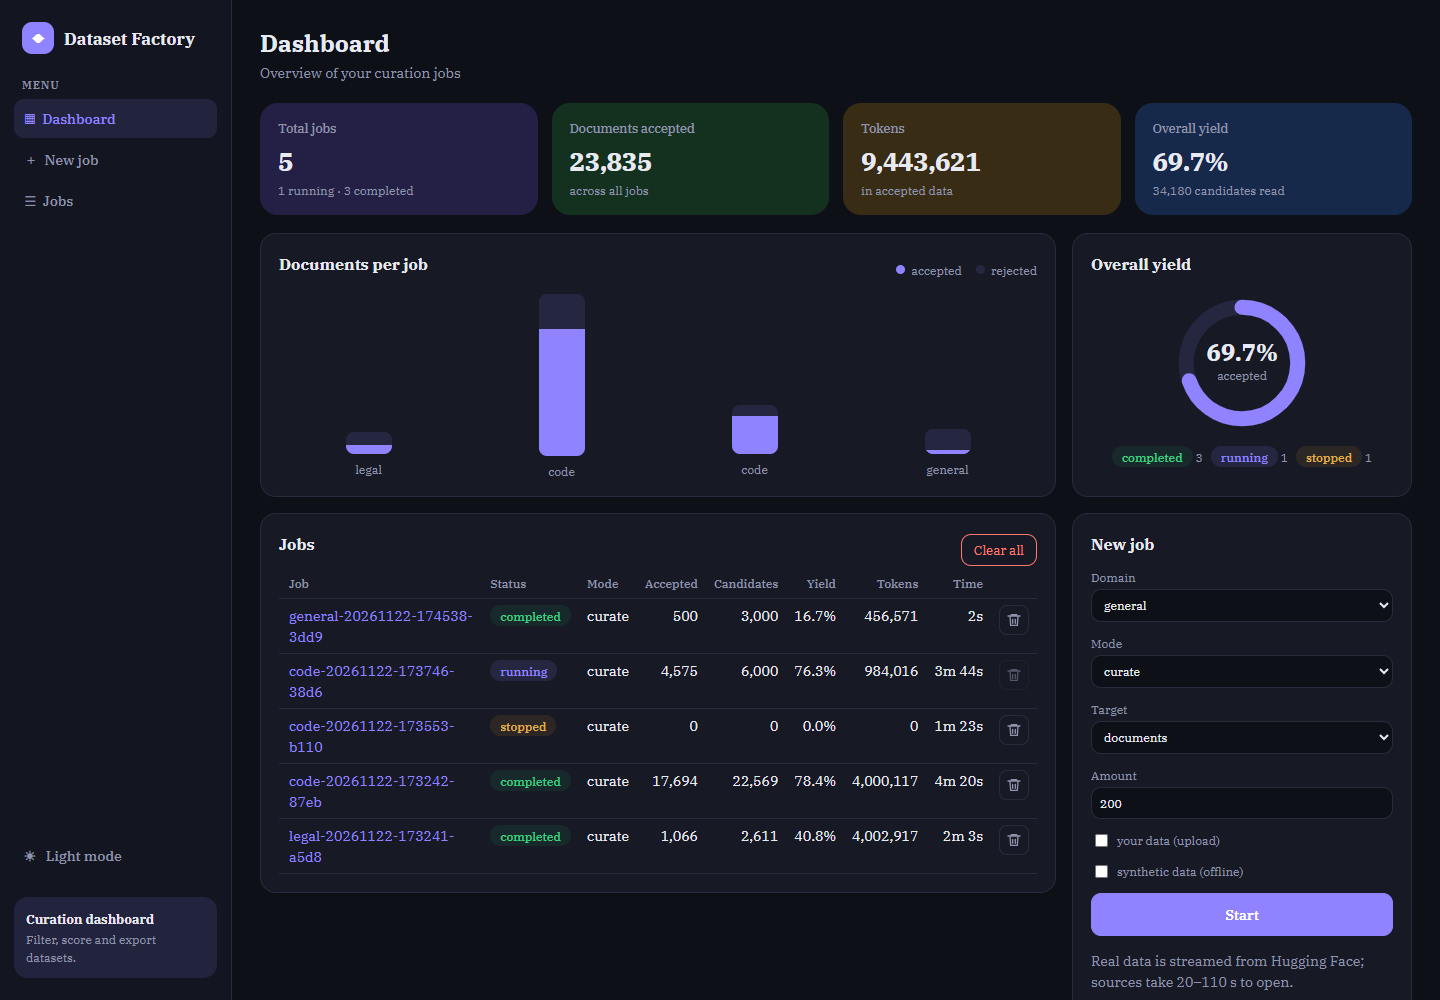
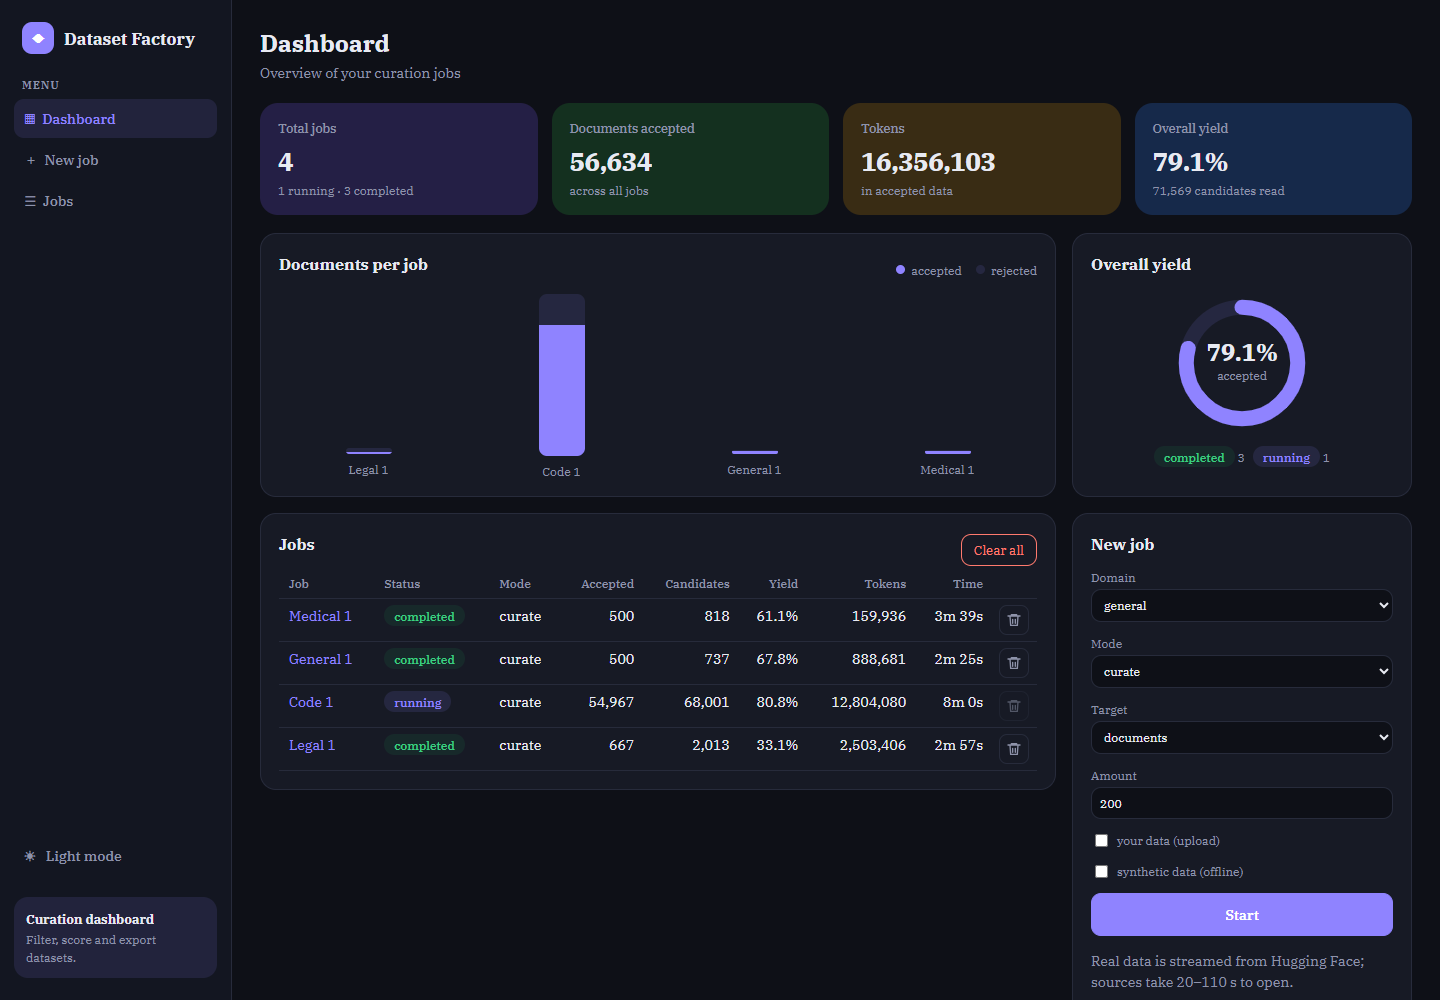
Friendly job names: "Legal 1", "Code random 2"
- Each job gets a permanent name when it is created, stored in
  <runs>/job-names.json (job folders are not touched). Numbers count per
  domain and mode and are never reused after a delete; older jobs are numbered
  oldest first the first time the API lists them. Saving retries on the brief
  Windows file lock.
- The dashboard list, chart and job page show the name; the id is a tooltip on
  the dashboard and small text on the job page. Jobs without a name fall back to
  the id.
- Tests: backend 233, frontend 50 (new tests for numbering, never-reuse,
  oldest-first, unreadable file, API names, and the UI labels).
- README/docs counts updated; screenshots retaken with fresh jobs numbered 1.

diff --git a/frontend/app/page.tsx b/frontend/app/page.tsx
@@ -1,6 +1,6 @@
 "use client";
 import { useEffect, useState } from "react";
-import { api, ACTIVE, dur, n, pct, type JobState, type Meta } from "./lib";
+import { api, ACTIVE, dur, label, n, pct, type JobState, type Meta } from "./lib";
 import { Badge, JobsChart, YieldDonut } from "./components";
 
 type Target = "max_documents" | "max_tokens" | "max_candidates";
@@ -49,7 +49,7 @@ export default function Home() {
   }
 
   async function removeJob(j: JobState) {
-    if (!window.confirm(`Delete ${j.job_id} and all its data? This cannot be undone.`)) return;
+    if (!window.confirm(`Delete ${label(j)} and all its data? This cannot be undone.`)) return;
     try {
       await api<void>(`/api/jobs/${encodeURIComponent(j.job_id)}`, { method: "DELETE" });
       setJobs((old) => old.filter((x) => x.job_id !== j.job_id)); setError("");
@@ -100,14 +100,14 @@ export default function Home() {
               <th className="num">Yield</th><th className="num">Tokens</th><th className="num">Time</th><th /></tr></thead>
             <tbody>{jobs.map((j) => (
               <tr key={j.job_id}>
-                <td className="c-job"><a href={`/jobs/view?id=${encodeURIComponent(j.job_id)}`}>{j.job_id}</a></td>
+                <td className="c-job"><a href={`/jobs/view?id=${encodeURIComponent(j.job_id)}`} title={j.job_id}>{label(j)}</a></td>
                 <td className="c-status"><Badge status={j.status} /></td><td className="c-mode">{j.mode}</td>
                 <td className="num c-acc" data-label="accepted">{n(j.accepted)}</td><td className="num c-cand">{n(j.candidates)}</td>
                 <td className="num c-yield" data-label="yield">{ACTIVE.includes(j.status) && !j.candidates ? "–" : pct(j.yield_rate)}</td>
                 <td className="num c-tok">{n(j.tokens)}</td><td className="num c-time" data-label="time">{dur(j.elapsed_seconds)}</td>
                 <td className="c-del">
                   <button className="icon" onClick={() => removeJob(j)} disabled={ACTIVE.includes(j.status)}
-                    aria-label={`Delete ${j.job_id}`} title={ACTIVE.includes(j.status) ? "Stop the job before deleting it" : "Delete this job"}>
+                    aria-label={`Delete ${label(j)}`} title={ACTIVE.includes(j.status) ? "Stop the job before deleting it" : "Delete this job"}>
                     <svg viewBox="0 0 24 24" width="16" height="16" fill="none" stroke="currentColor" strokeWidth="2" strokeLinecap="round" strokeLinejoin="round" aria-hidden>
                       <path d="M3 6h18M8 6V4h8v2M6 6l1 14h10l1-14M10 11v6M14 11v6" />
                     </svg>

diff --git a/frontend/tests/home.test.tsx b/frontend/tests/home.test.tsx
@@ -1,4 +1,4 @@
-import { fireEvent, render, screen, waitFor } from "@testing-library/react";
+import { fireEvent, render, screen, waitFor, within } from "@testing-library/react";
 import userEvent from "@testing-library/user-event";
 import { describe, expect, it, vi } from "vitest";
 import Home from "../app/page";
@@ -65,6 +65,19 @@ describe("Home page", () => {
     expect(screen.getByRole("link", { name: "run-1" })).toBeInTheDocument();
     expect(calls.find((c) => c.method === "DELETE")!.path).toBe("/api/jobs");
     expect(confirm.mock.calls[1][0]).toMatch(/all 2 finished jobs/);
+  });
+
+  it("shows the friendly name and keeps the id only as a tooltip and link target", async () => {
+    mockApi({ ...base, "GET /api/jobs": [job({ name: "Legal 2" }), job({ job_id: "old-job" })] });
+    render(<Home />);
+    await screen.findAllByRole("link", { name: "Legal 2" });
+    const table = within(screen.getByRole("table"));
+    const link = table.getByRole("link", { name: "Legal 2" });
+    expect(link).toHaveAttribute("href", "/jobs/view?id=legal-1");
+    expect(link).toHaveAttribute("title", "legal-1");
+    expect(screen.queryByText("legal-1")).not.toBeInTheDocument();                 // the id is not shown as text
+    expect(table.getByRole("link", { name: "old-job" })).toBeInTheDocument();      // no name yet: falls back to the id
+    expect(screen.getByRole("button", { name: "Delete Legal 2" })).toBeInTheDocument();
   });
 
   it("says so when there are no jobs", async () => {

diff --git a/frontend/app/jobs/view/page.tsx b/frontend/app/jobs/view/page.tsx
@@ -1,7 +1,7 @@
 "use client";
 import { Suspense, useCallback, useEffect, useRef, useState } from "react";
 import { useSearchParams } from "next/navigation";
-import { API, api, ACTIVE, dur, n, pct, type JobState } from "../../lib";
+import { API, api, ACTIVE, dur, label, n, pct, type JobState } from "../../lib";
 import { Badge, Browser, CountTable, Histogram, NestedTable, Stat } from "../../components";
 
 function Detail() {
@@ -85,8 +85,9 @@ function Detail() {
       <div className="pagehead">
         <div>
           <a className="crumb" href="/">← Jobs</a>
-          <div className="row"><h1>{state.job_id}</h1><Badge status={state.status} /></div>
-          <p>{state.domain} · {state.mode}{state.started_at ? ` · started ${new Date(state.started_at).toLocaleString()}` : ""}</p>
+          <div className="row"><h1 title={state.job_id}>{label(state)}</h1><Badge status={state.status} /></div>
+          <p>{state.domain} · {state.mode}{state.started_at ? ` · started ${new Date(state.started_at).toLocaleString()}` : ""}
+            {state.name && <span className="jid"> · id {state.job_id}</span>}</p>
         </div>
         <div className="row">
           {active && <button onClick={() => act("stop")} disabled={stopping}>{stopping ? "Stopping…" : "Stop"}</button>}

diff --git a/frontend/app/components.tsx b/frontend/app/components.tsx
@@ -1,6 +1,6 @@
 "use client";
 import { useCallback, useEffect, useState } from "react";
-import { api, n, pct, type Counts, type JobState } from "./lib";
+import { api, label, n, pct, type Counts, type JobState } from "./lib";
 
 export function Badge({ status }: { status: string }) {
   return <span className={`badge ${status}`}>{status}</span>;
@@ -136,12 +136,12 @@ export function JobsChart({ jobs }: { jobs: JobState[] }) {
         <div className="bars">
           {rows.map((j) => (
             <a key={j.job_id} className="barcol" href={`/jobs/view?id=${encodeURIComponent(j.job_id)}`}
-               title={`${j.job_id}: ${j.accepted} accepted of ${j.candidates} read`}>
+               title={`${label(j)} (${j.job_id}): ${j.accepted} accepted of ${j.candidates} read`}>
               <div className="stack" style={{ height: `${(j.candidates / max) * 100}%` }}>
                 <div className="r" style={{ flex: j.candidates - j.accepted }} />
                 <div className="a" style={{ flex: j.accepted }} />
               </div>
-              <span>{j.domain}</span>
+              <span>{j.name || j.domain}</span>
             </a>
           ))}
         </div>

diff --git a/frontend/app/lib.ts b/frontend/app/lib.ts
@@ -2,7 +2,7 @@ export const API = process.env.NEXT_PUBLIC_API_URL || "http://localhost:8000";
 
 export type Counts = Record<string, number>;
 export interface JobState {
-  job_id: string; domain: string; mode: string; status: string; message: string;
+  job_id: string; name?: string; domain: string; mode: string; status: string; message: string;
   started_at: string; finished_at: string; elapsed_seconds: number;
   candidates: number; evaluated: number; accepted: number; tokens: number; words: number;
   rejected: Counts; by_source: Record<string, Counts>; by_agent: Record<string, Counts>;
@@ -32,4 +32,6 @@ export const dur = (s: number) => {
   const h = Math.floor(t / 3600), m = Math.floor((t % 3600) / 60), sec = t % 60;
   return h ? `${h}h ${m}m ${sec}s` : m ? `${m}m ${sec}s` : `${sec}s`;
 };
+/** What people see: the friendly name ("Legal 2"), or the id for a job without one. */
+export const label = (j: { job_id: string; name?: string }) => j.name || j.job_id;
 export const ACTIVE = ["pending", "running", "stopping"];

diff --git a/frontend/tests/jobview.test.tsx b/frontend/tests/jobview.test.tsx
@@ -118,6 +118,13 @@ describe("job detail page", () => {
     expect(within(statTile("elapsed")).getByText(/^1[12]s$/)).toBeInTheDocument();
   });
 
+  it("titles the page with the friendly name and shows the id in small print", async () => {
+    mockApi({ "GET /api/jobs/legal-1": detail(job({ name: "Legal 4" })), ...lists });
+    render(<JobPage />);
+    expect(await screen.findByRole("heading", { level: 1, name: "Legal 4" })).toBeInTheDocument();
+    expect(screen.getByText(/id legal-1/)).toBeInTheDocument();
+  });
+
   it("offers Resume for a stopped job and posts it", async () => {
     const { calls } = mockApi({
       "GET /api/jobs/legal-1": detail(job({ status: "stopped" })),

diff --git a/frontend/app/globals.css b/frontend/app/globals.css
@@ -138,3 +138,4 @@ button.icon { padding:6px; border-radius:8px; color:var(--mute); line-height:0; 
 button.danger { color:var(--bad); border-color:var(--bad); background:transparent; padding:5px 12px; font-size:13px; } button.danger:hover:not(:disabled) { background:var(--bad); color:#fff; }
 table.jobs td.num { white-space:nowrap; } table.jobs td.c-del { text-align:right; width:1%; }
 @media (max-width:640px) { table.jobs td.c-del { grid-column:4; grid-row:2; align-self:end; } }
+.jid { color:var(--mute); font-size:12px; font-family:ui-monospace,Consolas,monospace; word-break:break-all; }

diff --git a/backend/dataset_factory/api/names.py b/backend/dataset_factory/api/names.py
@@ -1,0 +1,88 @@
+"""Friendly, permanent job names ("Legal 1", "Code random 3") kept in ``<runs>/job-names.json``.
+
+The job id (``legal-20261123-224402-38f6``) stays the real identifier; the name is only for people.
+Numbers count up per domain and mode and are never reused, so deleting "Legal 2" does not turn "Legal 3" into
+"Legal 2". Jobs that existed before this file did get numbers in the order they were started. Job folders are not
+touched, only this one small file.
+"""
+
+from __future__ import annotations
+
+import json
+import os
+import threading
+import time
+from pathlib import Path
+from typing import Any
+
+
+def name_prefix(domain: str, mode: str) -> str:
+    base = (domain or "job").capitalize()
+    return f"{base} random" if mode == "random" else base
+
+
+class JobNames:
+    def __init__(self, output_dir: Path) -> None:
+        self.path = Path(output_dir) / "job-names.json"
+        self._lock = threading.Lock()
+        self._names: dict[str, str] = {}
+        self._counters: dict[str, int] = {}
+        self._load()
+
+    # -- storage ------------------------------------------------------------
+
+    def _load(self) -> None:
+        try:
+            data = json.loads(self.path.read_text(encoding="utf-8"))
+            self._names = {str(k): str(v) for k, v in dict(data.get("names", {})).items()}
+            self._counters = {str(k): int(v) for k, v in dict(data.get("counters", {})).items()}
+        except (OSError, ValueError, TypeError, AttributeError):
+            self._names, self._counters = {}, {}          # missing or unreadable: start empty
+
+    def _save(self) -> None:
+        try:
+            self.path.parent.mkdir(parents=True, exist_ok=True)
+            tmp = self.path.with_suffix(".json.tmp")
+            tmp.write_text(json.dumps({"counters": self._counters, "names": self._names}, indent=1), encoding="utf-8")
+            for attempt in range(8):                      # Windows: the target can be briefly locked by another program
+                try:
+                    os.replace(tmp, self.path)
+                    return
+                except PermissionError:
+                    time.sleep(0.05 * (attempt + 1))
+            os.replace(tmp, self.path)
+        except OSError:
+            pass                                          # names are a convenience; never break a job over them
+
+    # -- use ----------------------------------------------------------------
+
+    def get(self, job_id: str) -> str:
+        return self._names.get(job_id, "")
+
+    def assign(self, job_id: str, domain: str, mode: str) -> str:
+        with self._lock:
+            return self._assign(job_id, domain, mode)
+
+    def _assign(self, job_id: str, domain: str, mode: str) -> str:
+        if job_id in self._names:
+            return self._names[job_id]
+        prefix = name_prefix(domain, mode)
+        number = self._counters.get(prefix, 0) + 1
+        self._counters[prefix] = number
+        self._names[job_id] = f"{prefix} {number}"
+        self._save()
+        return self._names[job_id]
+
+    def forget(self, job_id: str) -> None:
+        with self._lock:
+            if self._names.pop(job_id, None) is not None:
+                self._save()
+
+    def sync(self, rows: list[dict[str, Any]]) -> None:
+        """Give every row a name (oldest unnamed job first) and put it in ``row["name"]``."""
+        with self._lock:
+            for row in sorted((r for r in rows if r["job_id"] not in self._names),
+                              key=lambda r: r.get("started_at") or ""):
+                self._assign(row["job_id"], row.get("domain", ""), row.get("mode", "curate"))
+            for row in rows:
+                row["name"] = self._names.get(row["job_id"], "")

diff --git a/backend/tests/test_job_feedback.py b/backend/tests/test_job_feedback.py
@@ -10,6 +10,7 @@ from fastapi.testclient import TestClient
 
 from dataset_factory.api import create_app
 from dataset_factory.api.manager import JobManager
+from dataset_factory.api.names import JobNames
 from dataset_factory.tokens import TokenizerUnavailable, load_token_counter
 from dataset_factory.config import load_config
 from dataset_factory.orchestrator import Job, JobSpec
@@ -118,3 +119,45 @@ def test_running_job_cannot_be_deleted_and_survives_clear_all(client):
     while time.time() < end and client.get(f"/api/jobs/{job_id}").json()["state"]["status"] != "stopped":
         time.sleep(0.2)
     assert client.delete(f"/api/jobs/{job_id}").status_code == 204
+
+
+# -- friendly names -----------------------------------------------------------
+
+
+def test_names_count_per_domain_and_mode_and_are_never_reused(tmp_path):
+    names = JobNames(tmp_path)
+    assert names.assign("a", "legal", "curate") == "Legal 1"
+    assert names.assign("b", "legal", "curate") == "Legal 2"
+    assert names.assign("c", "legal", "random") == "Legal random 1"
+    assert names.assign("d", "code", "curate") == "Code 1"
+    assert names.assign("a", "legal", "curate") == "Legal 1"          # asking again keeps the name
+    names.forget("b")
+    assert names.assign("e", "legal", "curate") == "Legal 3"          # "Legal 2" is not handed out again
+    assert JobNames(tmp_path).get("e") == "Legal 3"                    # survives a restart
+
+
+def test_older_jobs_are_named_oldest_first_and_new_ones_continue(tmp_path):
+    names = JobNames(tmp_path)
+    rows = [{"job_id": "new", "domain": "legal", "mode": "curate", "started_at": "2026-03-01"},
+            {"job_id": "old", "domain": "legal", "mode": "curate", "started_at": "2026-01-01"},
+            {"job_id": "mid", "domain": "legal", "mode": "curate", "started_at": "2026-02-01"}]
+    names.sync(rows)
+    assert {r["job_id"]: r["name"] for r in rows} == {"old": "Legal 1", "mid": "Legal 2", "new": "Legal 3"}
+    assert names.assign("fresh", "legal", "curate") == "Legal 4"
+
+
+def test_unreadable_names_file_does_not_break_anything(tmp_path):
+    (tmp_path / "job-names.json").write_text("{not json")
+    assert JobNames(tmp_path).assign("x", "news", "curate") == "News 1"
+
+
+@pytest.mark.skipif(not _HAVE_TOKENIZER, reason="Pythia tokenizer not cached")
+def test_api_returns_names_and_delete_forgets_them(client, tmp_path):
+    first, second = _run_job(client), _run_job(client)
+    names = {j["job_id"]: j["name"] for j in client.get("/api/jobs").json()}
+    assert sorted(names.values()) == ["General 1", "General 2"]
+    assert client.get(f"/api/jobs/{first}").json()["state"]["name"] == names[first]
+    client.delete(f"/api/jobs/{first}")
+    third = _run_job(client)
+    assert client.get(f"/api/jobs/{third}").json()["state"]["name"] == "General 3"
+    assert client.get(f"/api/jobs/{second}").json()["state"]["name"] == names[second]    # unchanged

diff --git a/backend/dataset_factory/api/manager.py b/backend/dataset_factory/api/manager.py
@@ -10,6 +10,7 @@ from pathlib import Path
 from typing import Any
 
 from ..config import Config, ConfigError, load_config
+from .names import JobNames
 from .uploads import UPLOAD_ID_RE
 from ..orchestrator import Job, JobSpec, default_output_dir, load_resumable
 
@@ -41,6 +42,7 @@ class JobManager:
         self.max_running = max_running
         self._entries: dict[str, _Entry] = {}
         self._lock = threading.Lock()
+        self._names = JobNames(self.output_dir)
 
     # -- helpers ------------------------------------------------------------
 
@@ -80,6 +82,7 @@ class JobManager:
             job = Job(spec, self.config, output_dir=self.output_dir, progress_every=0.5)
             entry = _Entry(job)
             self._entries[job.spec.job_id] = entry
+            self._names.assign(job.spec.job_id, spec.domain, spec.mode)
             self._launch(job, entry)
             return self.get(job.spec.job_id)
 
@@ -106,6 +109,7 @@ class JobManager:
             except OSError as exc:
                 raise JobConflict(f"could not delete the job folder: {exc}") from exc
             self._entries.pop(job_id, None)
+            self._names.forget(job_id)
 
     def delete_all(self) -> dict[str, list[str]]:
         """Delete every job that is not live; returns the deleted ids and the skipped (still live) ids."""
@@ -141,6 +145,13 @@ class JobManager:
     # -- queries ------------------------------------------------------------
 
     def get(self, job_id: str) -> dict[str, Any]:
+        data = self._state(job_id)
+        if not self._names.get(job_id):
+            self.list()                                   # first sight of an older job: name them all, oldest first
+        data["name"] = self._names.get(job_id)
+        return data
+
+    def _state(self, job_id: str) -> dict[str, Any]:
         entry = self._entries.get(job_id)
         if entry is not None:
             data = dict(entry.snapshot)
@@ -174,9 +185,10 @@ class JobManager:
         rows = []
         for job_id in ids:
             try:
-                rows.append(self.get(job_id))
+                rows.append(self._state(job_id))
             except (JobNotFound, OSError, ValueError, KeyError):
                 continue
+        self._names.sync(rows)
         # Newest first; a job that has not reported its start time yet was just created, so it goes on top.
         rows.sort(key=lambda s: s.get("started_at") or "~", reverse=True)
         return rows

diff --git a/README.md b/README.md
@@ -1,6 +1,6 @@
 # Dataset Factory
 
-[![CI](https://github.com/MdMuzammilNihal/DatasetFactory/actions/workflows/ci.yml/badge.svg?branch=main)](https://github.com/MdMuzammilNihal/DatasetFactory/actions/workflows/ci.yml) ![license](https://img.shields.io/badge/license-MIT-blue) ![python](https://img.shields.io/badge/python-3.13-blue) ![tests](https://img.shields.io/badge/tests-307%20passing-brightgreen) ![node](https://img.shields.io/badge/node-22-green)
+[![CI](https://github.com/MdMuzammilNihal/DatasetFactory/actions/workflows/ci.yml/badge.svg?branch=main)](https://github.com/MdMuzammilNihal/DatasetFactory/actions/workflows/ci.yml) ![license](https://img.shields.io/badge/license-MIT-blue) ![python](https://img.shields.io/badge/python-3.13-blue) ![tests](https://img.shields.io/badge/tests-313%20passing-brightgreen) ![node](https://img.shields.io/badge/node-22-green)
 
 A reproducible pipeline for curating domain data for LLM pretraining, plus an evaluation framework that shows **when
 curation helps and when it does not**. It curates real Hugging Face corpora for six domains (general, news, medical,
@@ -15,7 +15,7 @@ legal, scientific, code), with a live dashboard, and measures the effect on Pyth
   and upload of your own data. One-command Docker demo.
 - Evaluation done carefully: same-source unfiltered baselines, per-stage ablations, 13-gram test-set decontamination,
   separate dev and test sets, 3 seeds, paired bootstrap confidence intervals.
-- 307 automated tests (backend, training, frontend) and CI on every push.
+- 313 automated tests (backend, training, frontend) and CI on every push.
 
 Measured on Pythia-160M with 20M-token corpora: curation clearly helps for general web text, helps a little for legal
 (~1.3%) and code (~0.5%) text inside a mixed corpus, and the medical filters add nothing measurable.
@@ -91,6 +91,9 @@ cd ../frontend; npm run dev                                        # dashboard a
 **Your own data:** tick "your data (upload)" on the new-job form (`.jsonl`, `.csv`, `.parquet` or `.txt`, max 200 MB),
 or use `POST /api/uploads` then `POST /api/jobs` with `upload_id`, or `curate DOMAIN --input f.jsonl`. Uploads can be
 listed and deleted through the API, and unused ones older than 14 days are removed at start-up.
+
+**Job names:** each job gets a permanent friendly name ("Legal 1", "Code random 2"; numbers are never reused after a delete) kept in
+`runs/job-names.json`; the real id (the folder name) shows as small text on the job page and as a tooltip.
 
 **Deleting jobs:** the trash icon on a job in the dashboard deletes that finished job and its data; **Clear all** deletes every
 finished job (running jobs are kept; both ask first). API: `DELETE /api/jobs/<id>` and `DELETE /api/jobs?confirm=true`.

diff --git a/docs/RESUME.md b/docs/RESUME.md
@@ -10,7 +10,7 @@ Topics: `llm`, `data-curation`, `pretraining`, `nlp`, `fastapi`, `nextjs`, `pyto
 - Shipped a FastAPI backend and a live Next.js dashboard (SSE progress, rejection reasons, score histograms, record browser, stop/resume), runnable with one command via Docker Compose (images built in CI).
 - Designed the evaluation: same-source unfiltered baselines, per-stage ablations, 13-gram test-set decontamination, separate dev/test sets, 3 seeds, paired bootstrap CIs; ran 57 Pythia-160M continued-pretraining runs plus 4-bit QLoRA on 160M-1B models.
 - Found that domain filters help little: legal text about 1.3% and code about 0.5% lower perplexity inside a mixed corpus, medical none; curated general text beat raw FineWeb/Wikipedia on WikiText. Also found 10 WikiText test articles in the Wikipedia training data and that 55% PubMedQA accuracy at 160M equals always answering "yes".
-- 307 automated tests (229 backend, 30 training, 48 frontend), GitHub Actions CI.
+- 313 automated tests (233 backend, 30 training, 50 frontend), GitHub Actions CI.
 
 ## Two-line version
 Built and evaluated an LLM-pretraining data-curation system (300M-token run, resumable, dashboard) and a rigorous evaluation framework (baselines, ablations, decontamination, 3 seeds) that showed most domain filters add under 1.3%.
